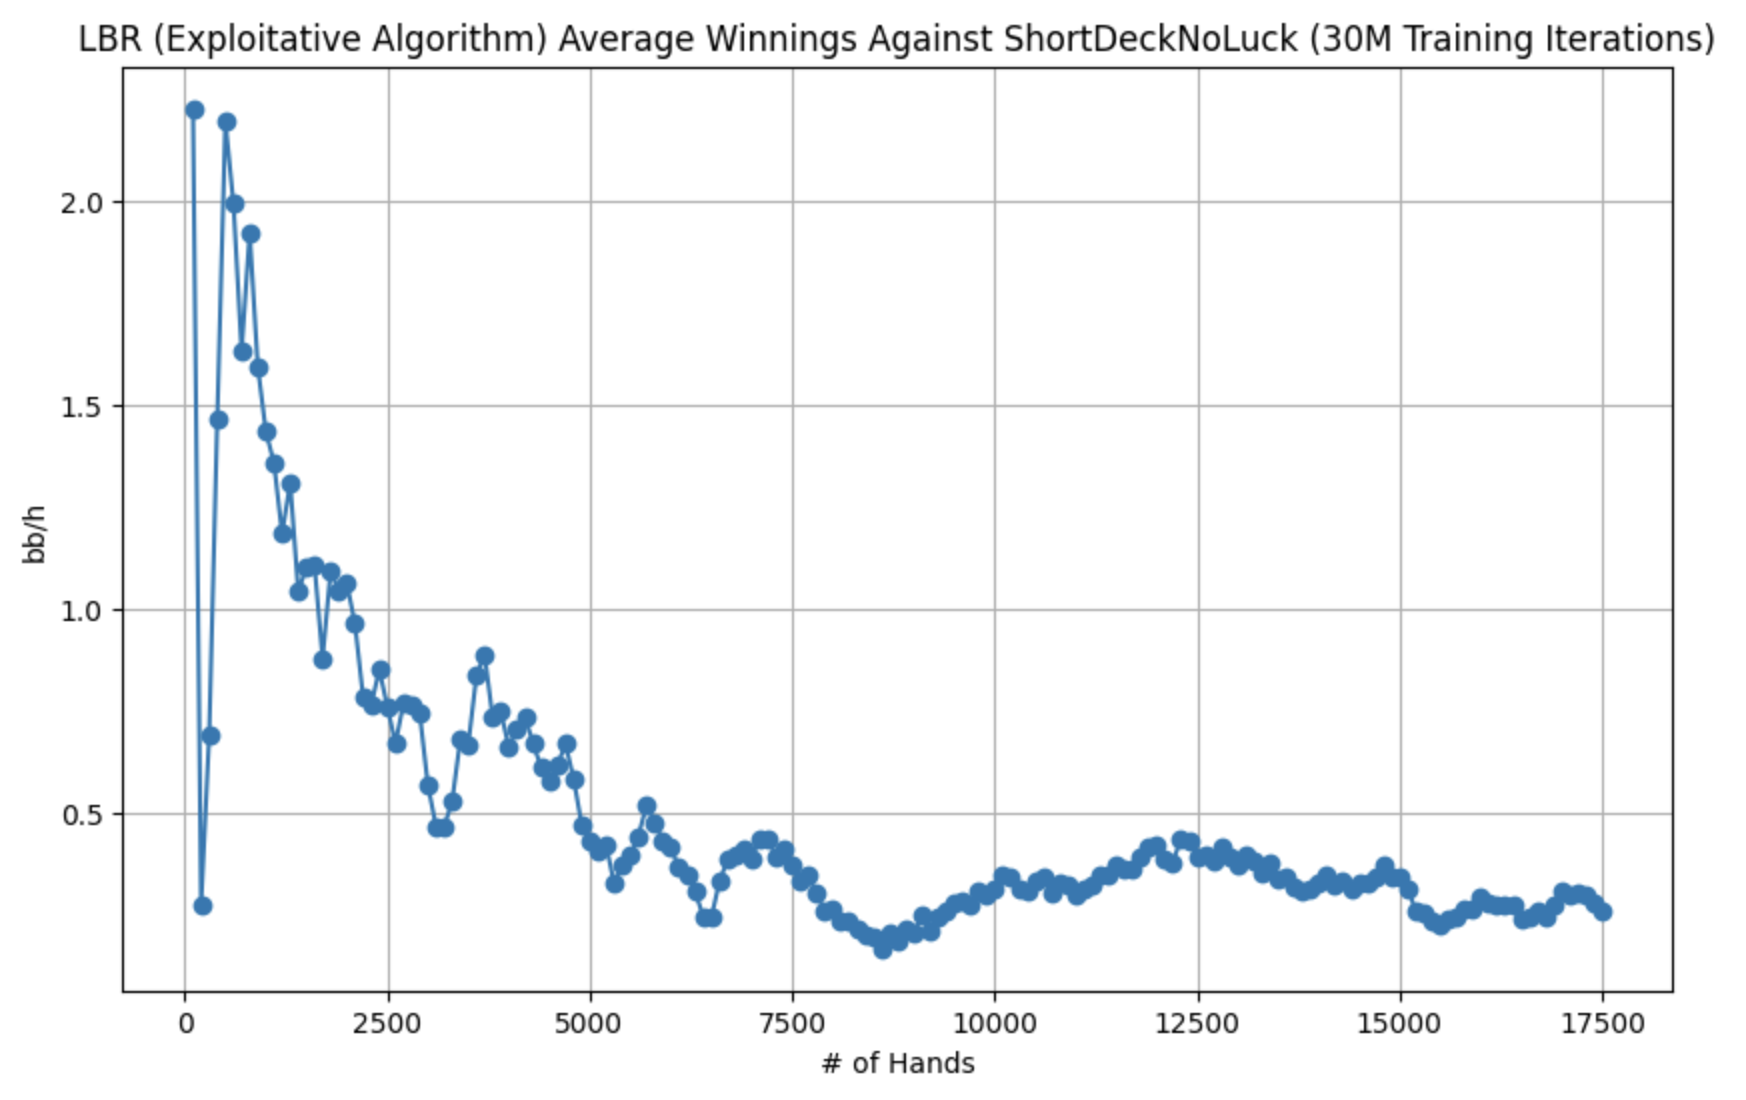
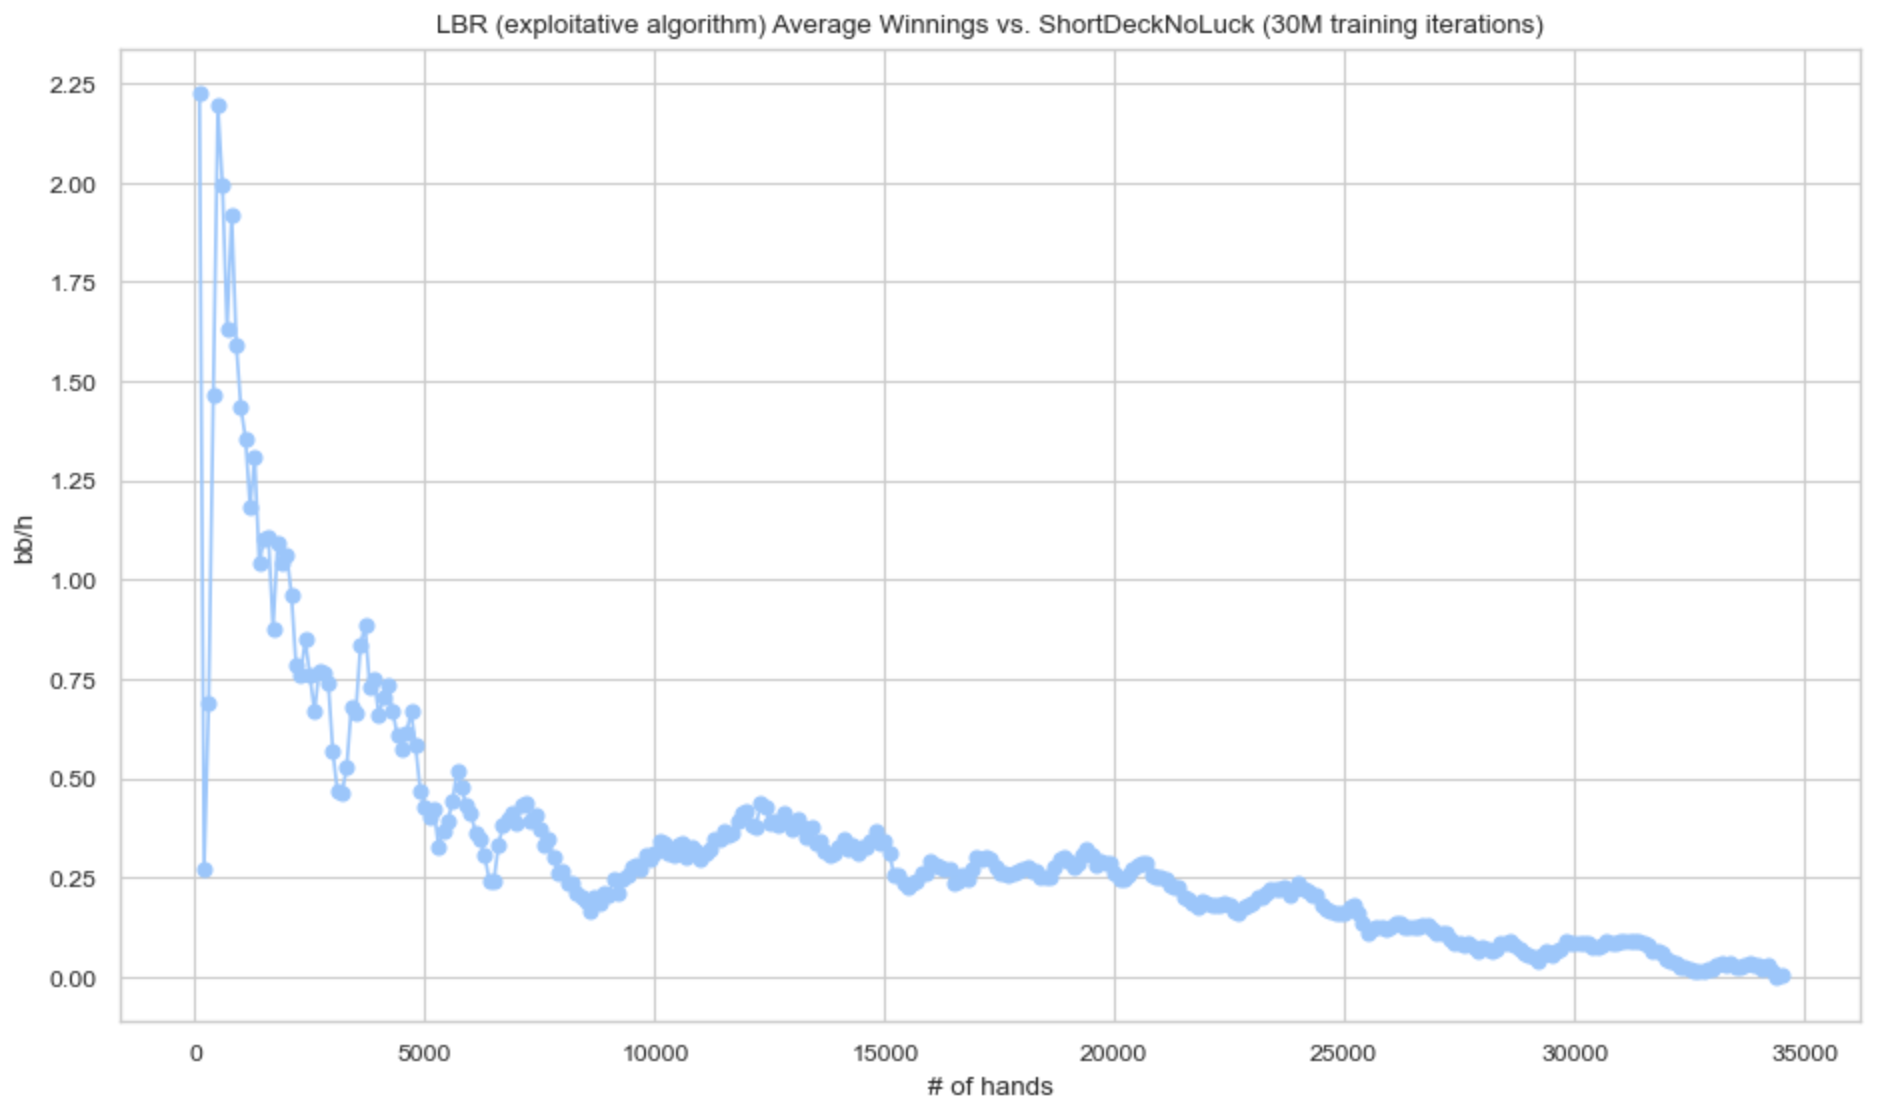
images

diff --git a/src/game_state.cpp b/src/game_state.cpp
@@ -881,6 +881,49 @@ void GameState::apply_index(int index) {
     rivr_history = (rivr_history << 3) | a;
 }
 
+// void GameState::undo() {
+//     if (rivr_seen) {
+//         if (rivr_history > 0) {
+//             rivr_history >>= 3; // every action is 3 bits long
+//             return;
+//         } else if (rivr_history == 0) {
+//             rivr = 0;
+//             return;
+//         }
+//     }
+
+//     if (turn_seen) {
+//         if (turn_history > 0) {
+//             turn_history >>= 3;
+//             return;
+//         } else if (turn_history == 0) {
+//             turn = 0;
+//             return;
+//         }
+//     }
+
+//     if (flop_seen) {
+//         if (flop_history > 0) {
+//             flop_history >>= 3; // every action is 3 bits long
+//             return;
+//         } else if (flop_history == 0) {
+//             uint32_t mask = 0b111111111111111111;
+//             suita &= mask;
+//             suitb &= mask;
+//             suitc &= mask;
+//             suitd &= mask;
+//             return;
+//         }
+//     }
+
+//     if (!flop_seen) {
+//         if (pflp_history > 0) {
+//             pflp_history >>= 3;
+//             return;
+//         }
+//     }
+// }
+
 void GameState::apply_chance_action(int actions) {
 
     uint16_t suita_all = ((suita>>18) | (suita>>9) | suita) & 0b111111111;

diff --git a/include/game_state.h b/include/game_state.h
@@ -99,6 +99,7 @@ public:
 	int num_chance_actions() const;
 	void apply_index(int index);
 	void apply_chance_action(int actions);
+	// void undo();
 
 	// CFR helpers
 	InfoSet to_information_set();

diff --git a/README.md b/README.md
@@ -59,7 +59,7 @@ To generate custom ranges, you can use the `GameState::print_range()` function. 
 ## Results
 After training for 30 million iterations, we evaluated our strategy using the Local Best Response (LBR) algorithm. The results are as follows:
 
-- Approximate lower bound for strategy exploitability: 270 ± 50 mBB/h (milli big-blinds per hand)
+- Approximate lower bound for strategy exploitability: 175 ± 50 mBB/h (milli big-blinds per hand)
 - Training time: 6hrs
 - Hardware used: 2018 MacBook Pro, 2.2 GHz 6-Core Intel Core i7, 16 GB 2400 MHz DDR4 RAM
 
